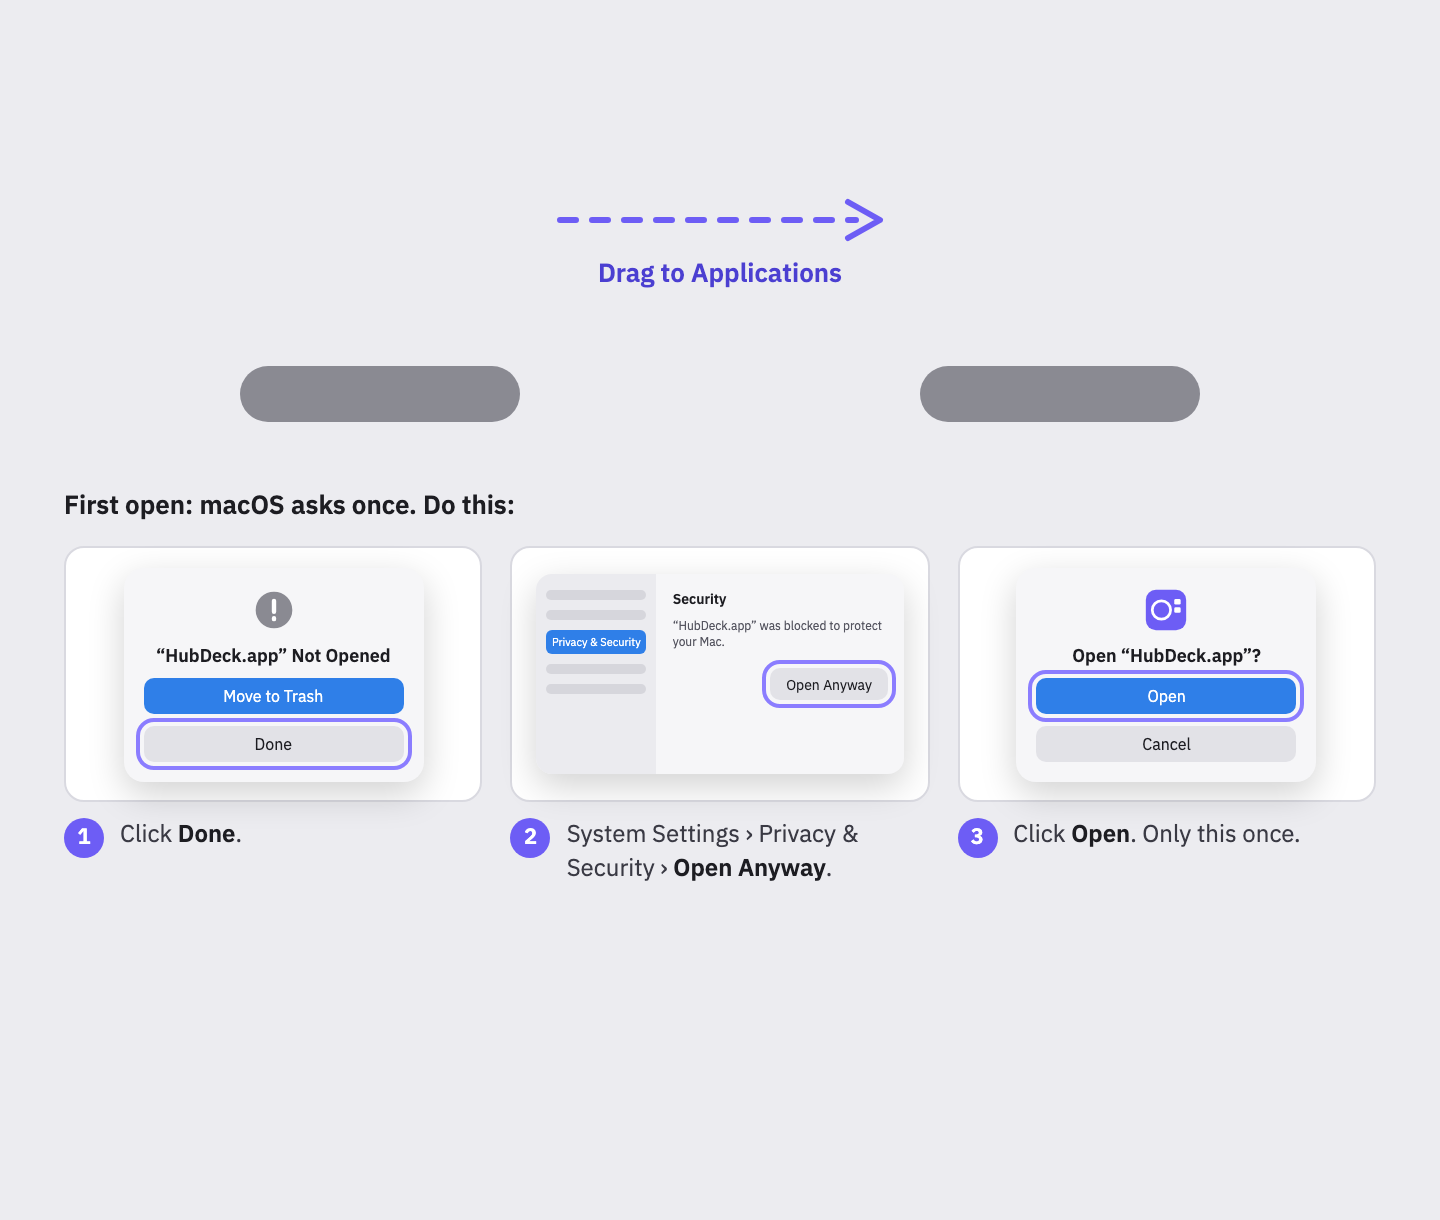
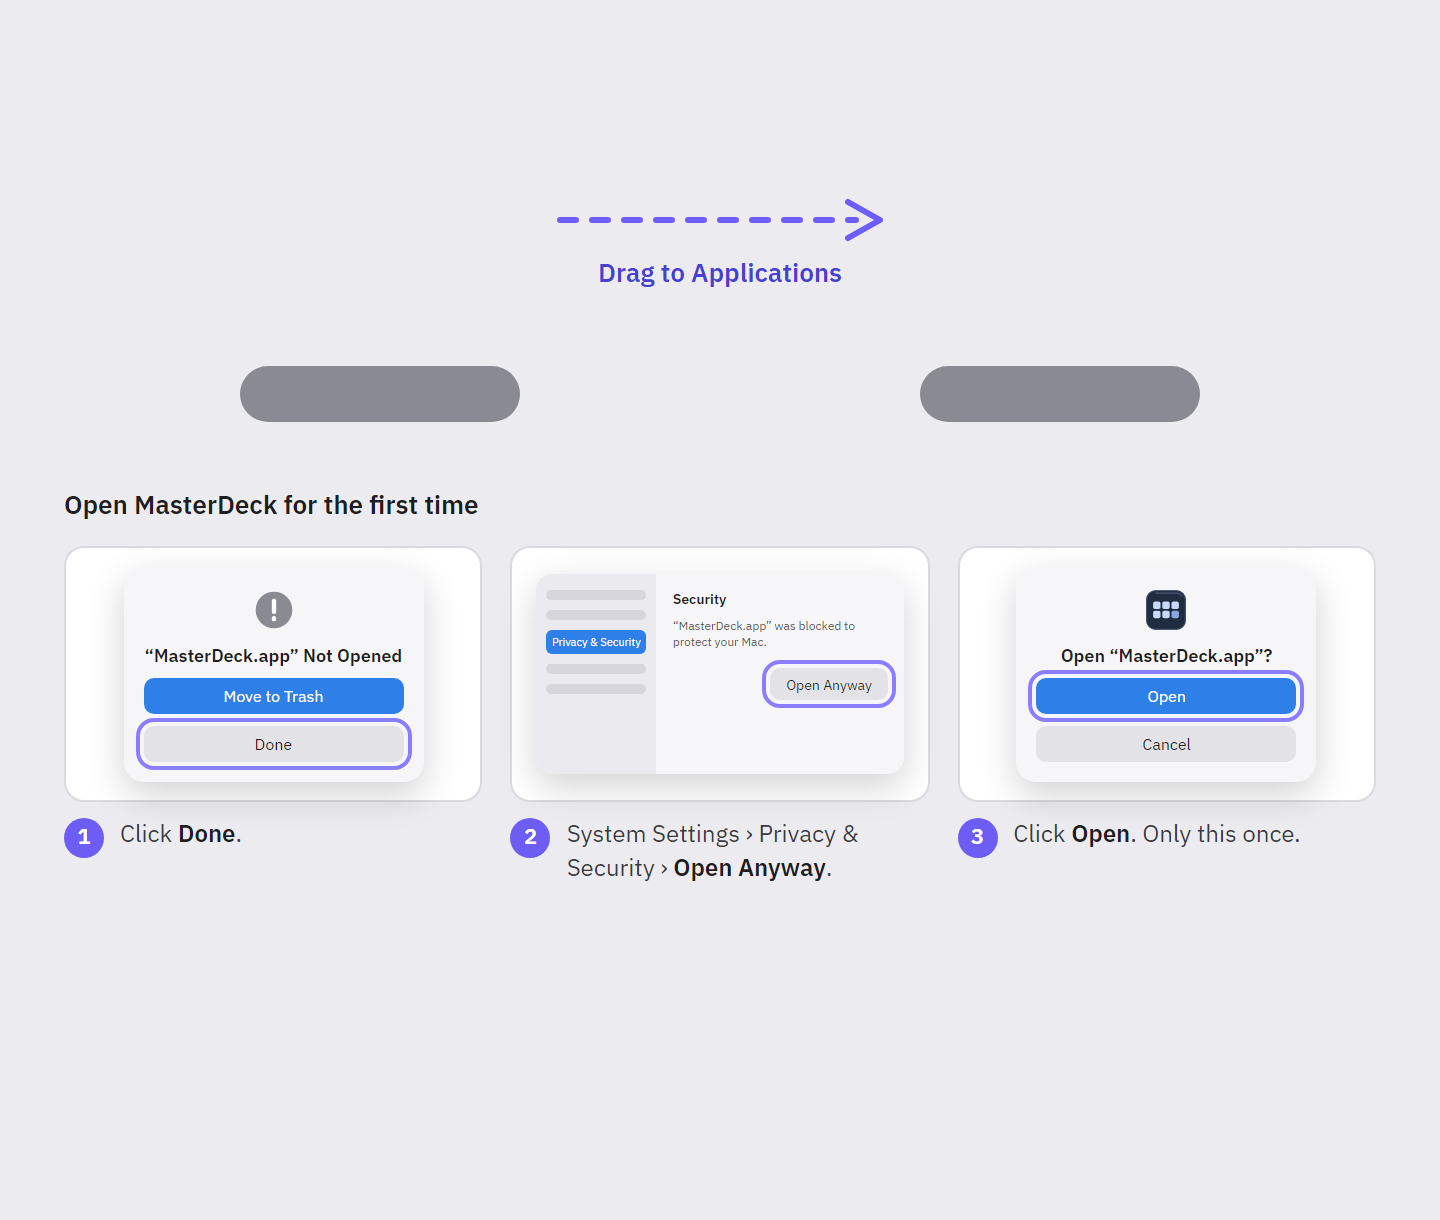
Finish MasterDeck branding for the app and macOS installer

diff --git a/app/src-tauri/dmg/background.html b/app/src-tauri/dmg/background.html
@@ -2,7 +2,7 @@
 <!--
   The background of the window the macOS .dmg opens (owner's pick B, 2026-10-13): drag to
   Applications, then the three steps of the first open of an app Apple has not notarised.
-  Finder draws the real HubDeck and Applications icons (128 px, centred at the positions in
+  Finder draws the real MasterDeck and Applications icons (128 px, centred at the positions in
   tauri.conf.json > bundle.macOS.dmg) and their labels. Light like macOS's own installers (owner's
   pick, round 2: "opcja nr 3"). Finder's two labels are black in the light look and white in the
   dark one, so grey plates sit under them that both read on (black 5.6:1, white 3.7:1; label centre
@@ -13,7 +13,7 @@
 <html lang="en">
 <head>
 <meta charset="utf-8">
-<title>HubDeck installer background</title>
+<title>MasterDeck installer background</title>
 <style>
 @font-face { font-family: Plex; font-weight: 400; src: url("../../node_modules/@fontsource/ibm-plex-sans/files/ibm-plex-sans-latin-400-normal.woff2"); }
 @font-face { font-family: Plex; font-weight: 600; src: url("../../node_modules/@fontsource/ibm-plex-sans/files/ibm-plex-sans-latin-600-normal.woff2"); }
@@ -51,12 +51,12 @@ h1 { margin: 0; font-size: 13px; font-weight: 600; }
   <span>Drag to Applications</span>
 </div>
 <div class="steps">
-  <h1>First open: macOS asks once. Do this:</h1>
+  <h1>Open MasterDeck for the first time</h1>
   <div class="grid">
     <div class="card">
       <div class="pic"><div class="dlg">
         <svg width="22" height="22" viewBox="0 0 24 24"><circle cx="12" cy="12" r="10" fill="#8a8a92"/><path d="M12 7 v6 M12 16.5 v.5" stroke="#fff" stroke-width="2.4" stroke-linecap="round"/></svg>
-        <b>“HubDeck.app” Not Opened</b>
+        <b>“MasterDeck.app” Not Opened</b>
         <span class="btn blue">Move to Trash</span>
         <span class="btn ring">Done</span>
       </div></div>
@@ -67,7 +67,7 @@ h1 { margin: 0; font-size: 13px; font-weight: 600; }
         <div class="side"><i></i><i></i><em>Privacy &amp; Security</em><i></i><i></i></div>
         <div class="main">
           <b style="font-size:7px">Security</b>
-          <span style="font-size:6px;line-height:1.35;color:#555560">“HubDeck.app” was blocked to protect your Mac.</span>
+          <span style="font-size:6px;line-height:1.35;color:#555560">“MasterDeck.app” was blocked to protect your Mac.</span>
           <span class="btn ring" style="align-self:flex-end;width:auto;height:16px;padding:0 8px;font-size:7px;margin-top:4px">Open Anyway</span>
         </div>
       </div></div>
@@ -75,8 +75,8 @@ h1 { margin: 0; font-size: 13px; font-weight: 600; }
     </div>
     <div class="card">
       <div class="pic"><div class="dlg">
-        <svg width="22" height="22" viewBox="0 0 96 96"><rect x="4" y="4" width="88" height="88" rx="22" fill="#6d5df5"/><circle cx="38" cy="48" r="20" fill="none" stroke="#fff" stroke-width="6"/><rect x="66" y="24" width="14" height="12" rx="3" fill="#fff"/><rect x="66" y="42" width="14" height="12" rx="3" fill="#fff"/></svg>
-        <b>Open “HubDeck.app”?</b>
+        <img src="../icons/masterdeck.svg" width="22" height="22" alt="">
+        <b>Open “MasterDeck.app”?</b>
         <span class="btn blue ring">Open</span>
         <span class="btn">Cancel</span>
       </div></div>

diff --git a/app/src-tauri/src/macos/appvolume.m b/app/src-tauri/src/macos/appvolume.m
@@ -1,5 +1,5 @@
 // Per-app volume on macOS (owner, 2026-10-13: "rób wszystko teraz"). macOS has no API to set one
-// app's volume; since macOS 14.2 an app's sound can be tapped (Core Audio process taps): HubDeck
+// app's volume; since macOS 14.2 an app's sound can be tapped (Core Audio process taps): MasterDeck
 // taps the app with "muted when tapped", so the app is no longer heard directly, and plays the
 // tapped sound to the speakers itself at the volume asked for (an aggregate device of the default
 // output and the tap, as SoundSource and open-source tools do). Back at full volume the tap goes
@@ -105,26 +105,26 @@ static MHTap *create(NSArray<NSNumber *> *processes, BOOL others, float gain, in
         *error = 4;
         return nil;
     }
-    // the class by name: a direct reference would stop HubDeck from starting on macOS 12 and 13
+    // the class by name: a direct reference would stop MasterDeck from starting on macOS 12 and 13
     Class tapClass = NSClassFromString(@"CATapDescription");
     if (!tapClass) {
         *error = 2;
         return nil;
     }
     CATapDescription *d = others ? [[tapClass alloc] initStereoGlobalTapButExcludeProcesses:processes] : [[tapClass alloc] initStereoMixdownOfProcesses:processes];
-    d.name = @"HubDeck app volume";
+    d.name = @"MasterDeck app volume";
     d.privateTap = YES;
     d.muteBehavior = CATapMutedWhenTapped;
     MHTap *t = [MHTap new];
     t.processes = processes;
     atomic_store(&t->gain, gain);
     if (AudioHardwareCreateProcessTap(d, &t->tap) != noErr || !t->tap) {
-        // most often: System Audio Recording not allowed for HubDeck
+        // most often: System Audio Recording not allowed for MasterDeck
         *error = 3;
         return nil;
     }
     NSDictionary *agg = @{
-        @kAudioAggregateDeviceNameKey : @"HubDeck app volume",
+        @kAudioAggregateDeviceNameKey : @"MasterDeck app volume",
         @kAudioAggregateDeviceUIDKey : [NSUUID UUID].UUIDString,
         @kAudioAggregateDeviceMainSubDeviceKey : output,
         @kAudioAggregateDeviceIsPrivateKey : @YES,
@@ -201,7 +201,7 @@ static int appvol_set(const char *key, const char *needles, int others, float ga
     return 2;
 }
 
-/// The volume HubDeck plays `key` at (1 when it does not tap it).
+/// The volume MasterDeck plays `key` at (1 when it does not tap it).
 static float appvol_get(const char *key) {
     @synchronized(taps()) {
         MHTap *t = taps()[[NSString stringWithUTF8String:key]];
@@ -209,7 +209,7 @@ static float appvol_get(const char *key) {
     }
 }
 
-/// Every app back to playing straight (HubDeck quits).
+/// Every app back to playing straight (MasterDeck quits).
 static void appvol_reset(void) {
     if (@available(macOS 14.2, *)) {
         @synchronized(taps()) {
@@ -221,7 +221,7 @@ static void appvol_reset(void) {
 
 // Called from Rust threads that have no autorelease pool: each call drains its own, or the
 // autoreleased strings, arrays and app objects of every turn of a knob would stay until the
-// thread ends (2026-10-14: the same gap grew HubDeck to gigabytes in the icon reader).
+// thread ends (2026-10-14: the same gap grew MasterDeck to gigabytes in the icon reader).
 int mh_appvol_set(const char *key, const char *needles, int others, float gain) {
     @autoreleasepool {
         return appvol_set(key, needles, others, gain);

diff --git a/app/src-tauri/src/macos/listen.m b/app/src-tauri/src/macos/listen.m
@@ -55,11 +55,11 @@ static int start(double *rate, int *channels) API_AVAILABLE(macos(14.2)) {
     stop();
     NSString *output = default_output();
     if (!output) return 4;
-    // the class by name: a direct reference would stop HubDeck from starting on macOS 12 and 13
+    // the class by name: a direct reference would stop MasterDeck from starting on macOS 12 and 13
     Class tapClass = NSClassFromString(@"CATapDescription");
     if (!tapClass) return 2;
     CATapDescription *d = [[tapClass alloc] initStereoGlobalTapButExcludeProcesses:@[]];
-    d.name = @"HubDeck lights to the music";
+    d.name = @"MasterDeck lights to the music";
     d.privateTap = YES;
     d.muteBehavior = CATapUnmuted;
     if (AudioHardwareCreateProcessTap(d, &tap_id) != noErr || !tap_id) {
@@ -74,7 +74,7 @@ static int start(double *rate, int *channels) API_AVAILABLE(macos(14.2)) {
         return 7;
     }
     NSDictionary *agg = @{
-        @kAudioAggregateDeviceNameKey : @"HubDeck lights to the music",
+        @kAudioAggregateDeviceNameKey : @"MasterDeck lights to the music",
         @kAudioAggregateDeviceUIDKey : [NSUUID UUID].UUIDString,
         @kAudioAggregateDeviceMainSubDeviceKey : output,
         @kAudioAggregateDeviceIsPrivateKey : @YES,

diff --git a/app/src-tauri/src/engine/mod.rs b/app/src-tauri/src/engine/mod.rs
@@ -393,7 +393,7 @@ pub fn live_looks() -> serde_json::Value {
 pub struct PluginLook {
     pub title: Option<String>,
     pub image: Option<String>,
-    /// State index. Stream Deck `setState` uses the action's `States` (0, 1, 2, ...). Hubdeck's own
+    /// State index. Stream Deck `setState` uses the action's `States` (0, 1, 2, ...). MasterDeck's own
     /// on/off is 0 or 1, and 1 is the "on" look.
     pub state: Option<u8>,
     /// What a Stream Deck plugin shows for an encoder (`setFeedback`): value 0..1, big text, title.
@@ -3458,7 +3458,7 @@ impl Worker {
             }
             "setImage" => look.image = m["image"].as_str().filter(|i| images::safe_data_uri(i)).map(str::to_string),
             "setState" => {
-                // a number is a state index; true/false is Hubdeck's own on/off, stored as 1 and 0
+                // a number is a state index; true/false is MasterDeck's own on/off, stored as 1 and 0
                 look.state = m["state"].as_u64().map(|n| u8::try_from(n).unwrap_or(u8::MAX)).or_else(|| m["state"].as_bool().map(u8::from));
             }
             "showFeedback" => {

diff --git a/app/src-tauri/src/macos/hw.m b/app/src-tauri/src/macos/hw.m
@@ -1,4 +1,4 @@
-// macOS hardware readings and monitor brightness for HubDeck (owner, 2026-10-13: "rób wszystko
+// macOS hardware readings and monitor brightness for MasterDeck (owner, 2026-10-13: "rób wszystko
 // teraz"). Apple gives no public API for these, so this uses the same system interfaces the well
 // known open-source tools use (Stats / macmon for sensors, MonitorControl for brightness), each one
 // looked up at run time: a Mac without one gets "not available" instead of a crash or a link error.
@@ -236,7 +236,7 @@ static int ddc_get(AVService av) {
     return -1;
 }
 
-/// How many monitors HubDeck can set: the built-in screen first, then external ones.
+/// How many monitors MasterDeck can set: the built-in screen first, then external ones.
 int mh_monitors(void) {
     AVService avs[8];
     int ext = external_services(avs, 8);

diff --git a/app/src-tauri/src/engine/assistant.rs b/app/src-tauri/src/engine/assistant.rs
@@ -584,7 +584,7 @@ pub fn personal_tour(app: &AppHandle, polish: bool) -> Result<String, String> {
     super::demo::set_language(if polish { "pl" } else { "en" });
     let mut p = super::demo::discover();
     p.id = uuid::Uuid::new_v4().to_string();
-    p.name = if polish { "Twoja wycieczka po HubDecku".into() } else { "Your MasterDeck tour".into() };
+    p.name = if polish { "Twoja wycieczka po MasterDecku".into() } else { "Your MasterDeck tour".into() };
     let launch = |target: &str, label: &str, image: Option<String>| -> super::profile::Binding {
         let short: String = label.chars().take(12).collect();
         serde_json::from_value(json!({"action": "core.launch", "params": {"target": target}, "look": {"label": short, "image": image}})).unwrap_or_else(|_| super::profile::Binding {

diff --git a/app/src-tauri/src/engine/localize.rs b/app/src-tauri/src/engine/localize.rs
@@ -139,7 +139,7 @@ const PL: &[(&str, &str)] = &[
     ("Highlight", "Wyróżnij"),
     ("History", "Historia"),
     ("Home", "Dom"),
-    ("House look", "Styl HubDecka"),
+    ("House look", "Styl MasterDecka"),
     ("In front", "Na wierzchu"),
     ("Inside", "Wewnątrz"),
     ("Inspect", "Zbadaj"),
